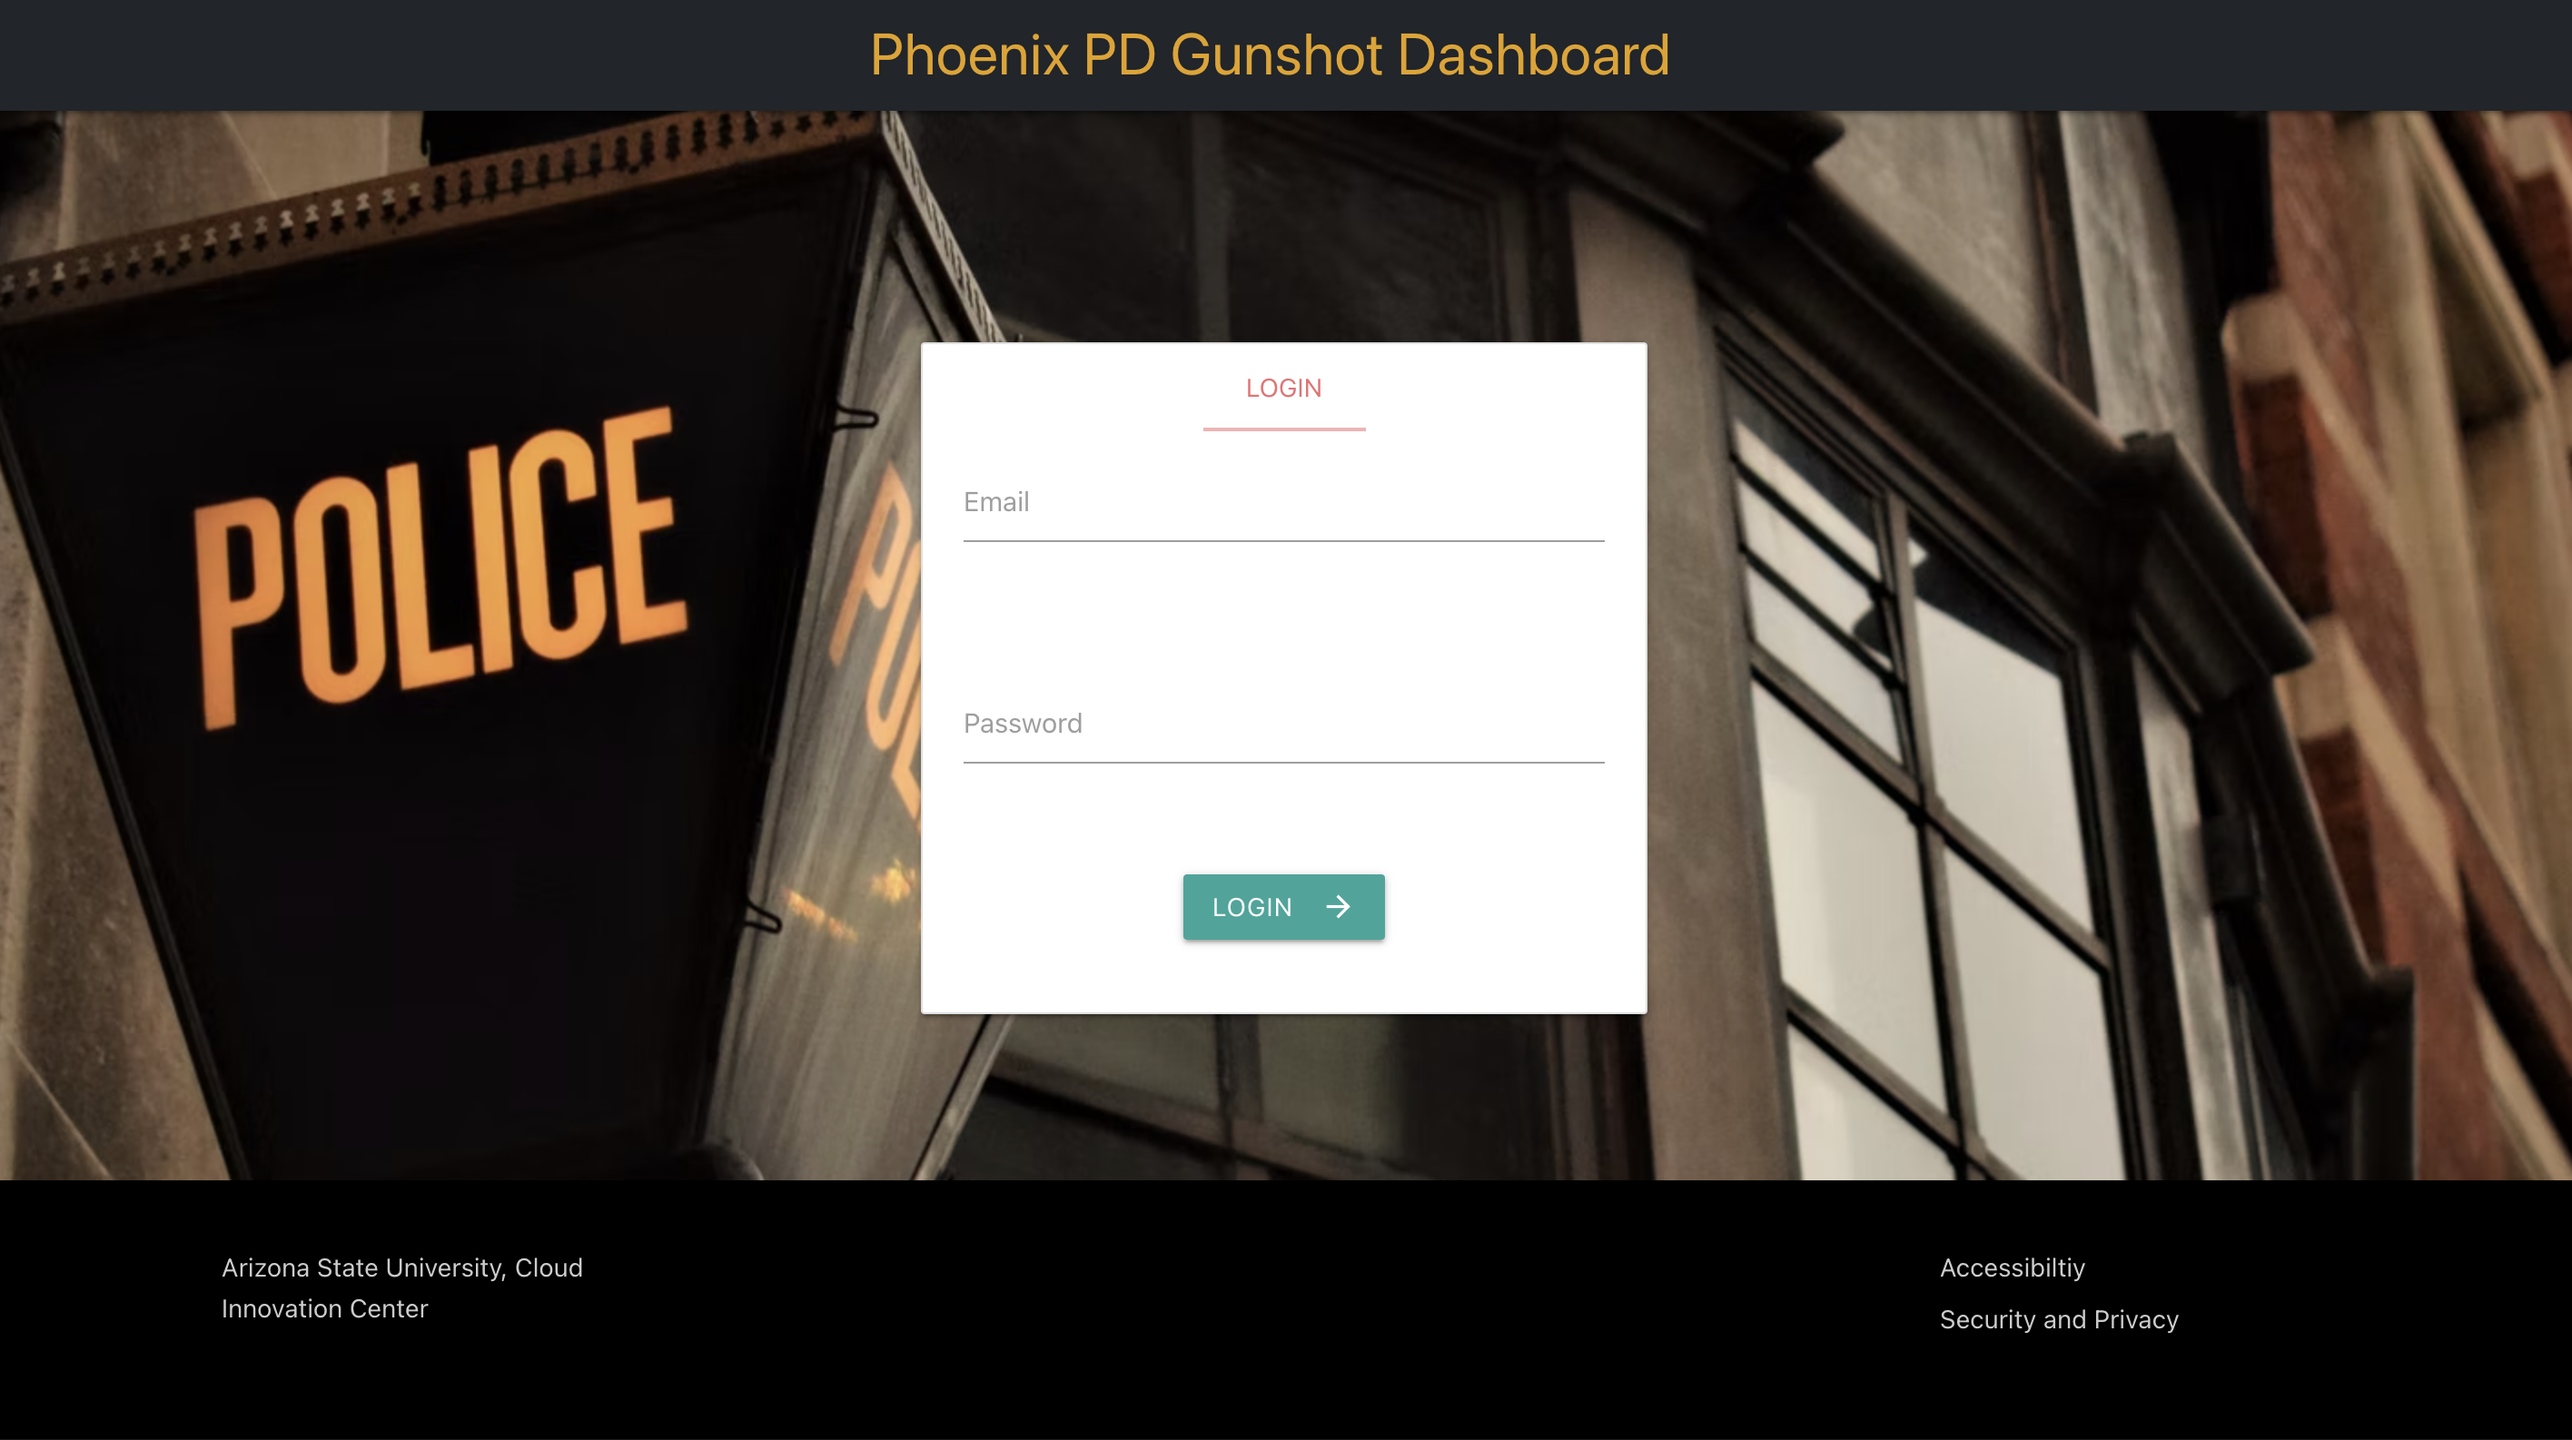
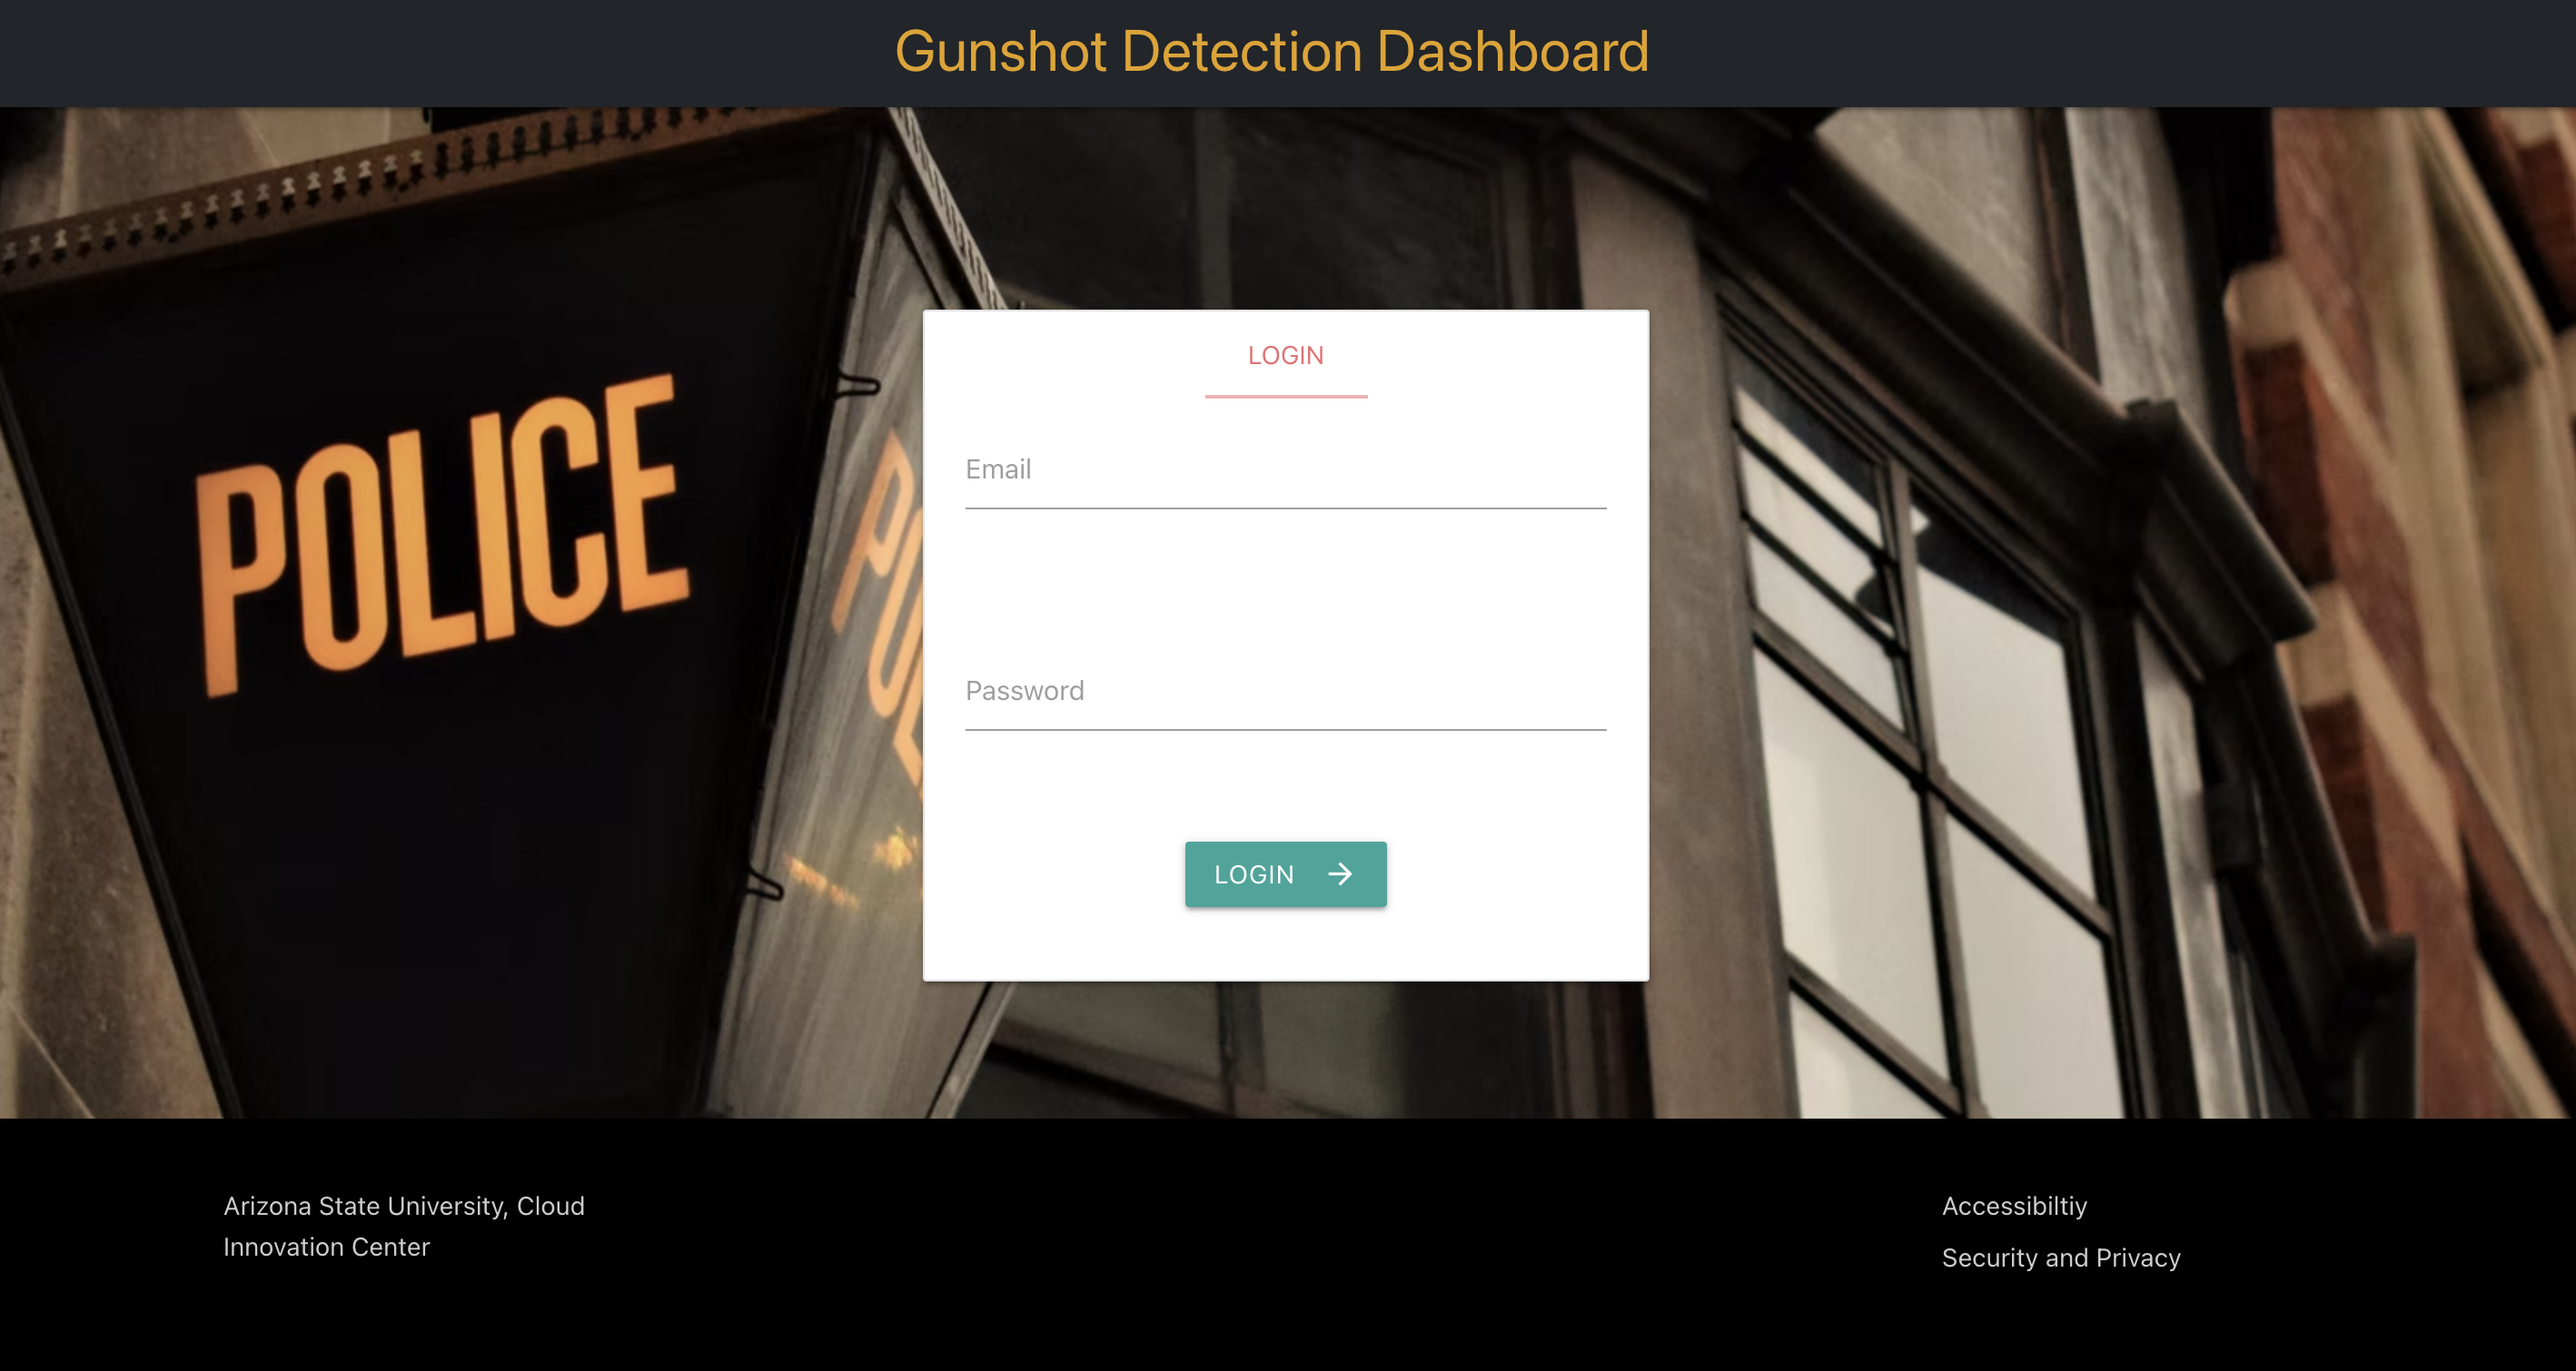
Update navbar

diff --git a/website/server/app/public/login.html b/website/server/app/public/login.html
@@ -53,7 +53,7 @@
   <header class="site-header">
     <nav class="navbar navbar-expand-md navbar-dark fixed-top bg-dark">
       <div class="container">
-        <a id="logo" class="navbar-brand mr-4" href="#">Phoenix PD Gunshot Dashboard</a>
+        <a id="logo" class="navbar-brand mr-4" href="#">Gunshot Detection Dashboard</a>
       </div>
     </nav>
   </header>
